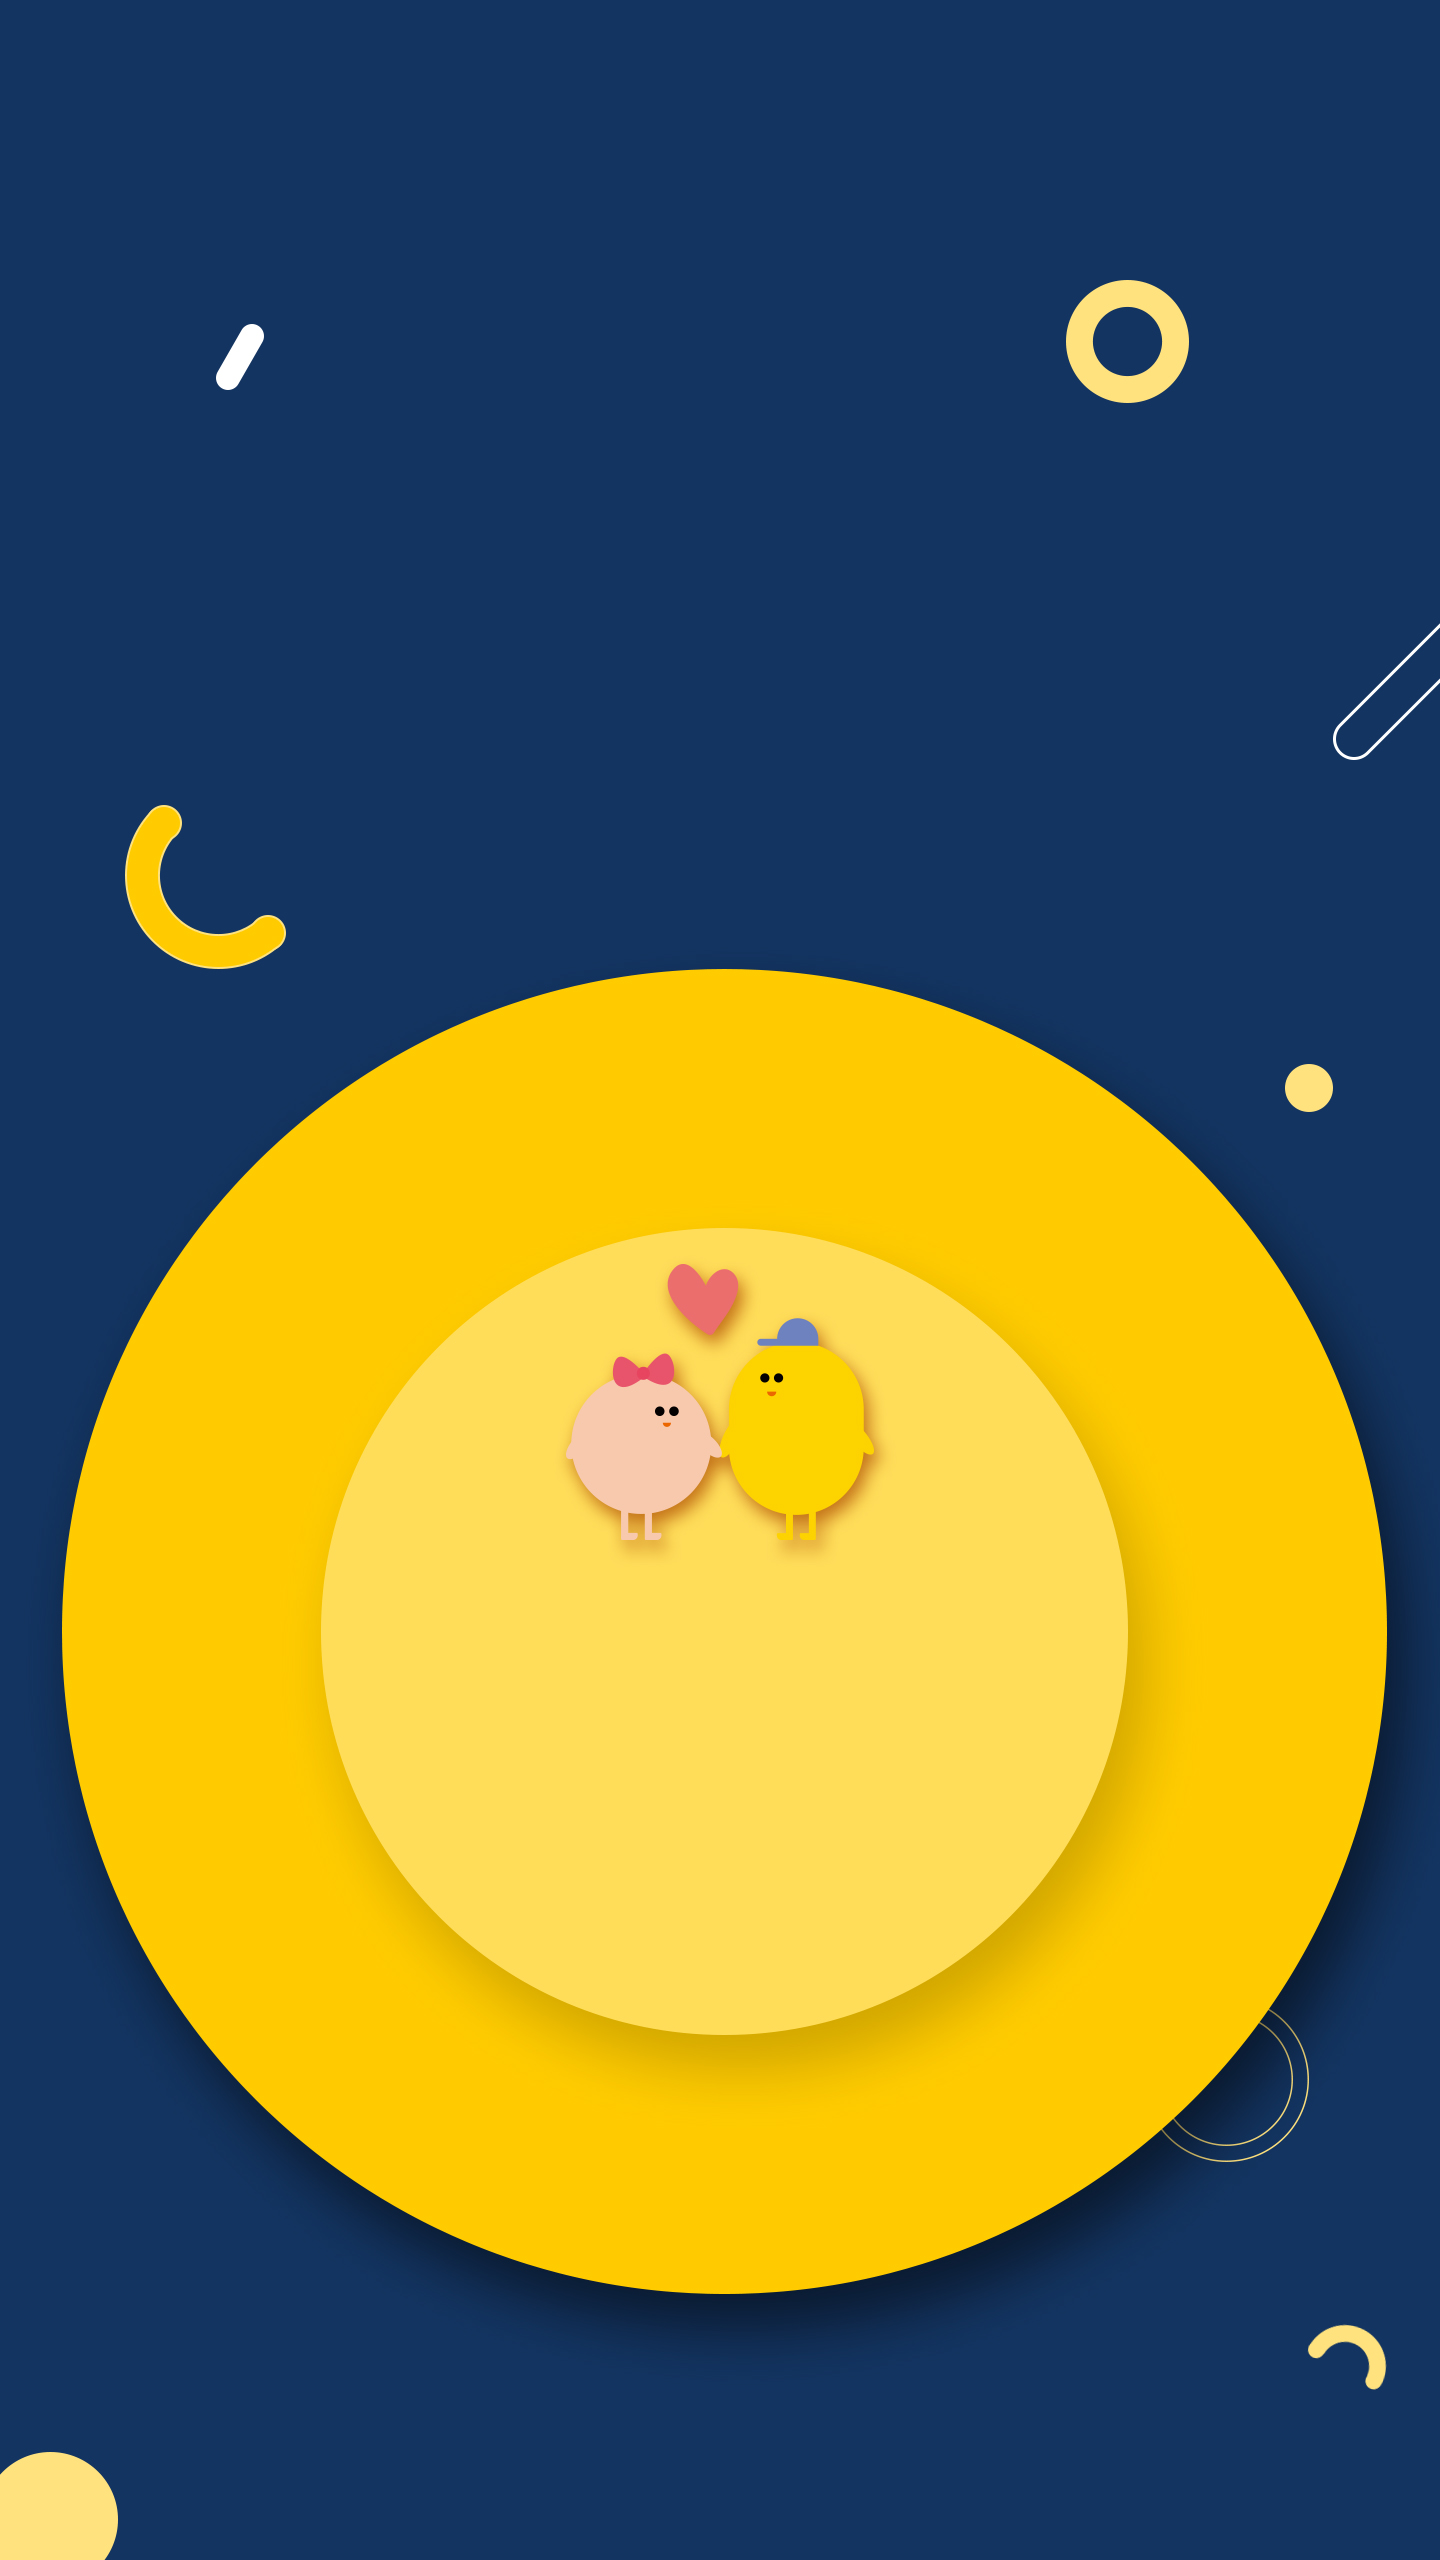
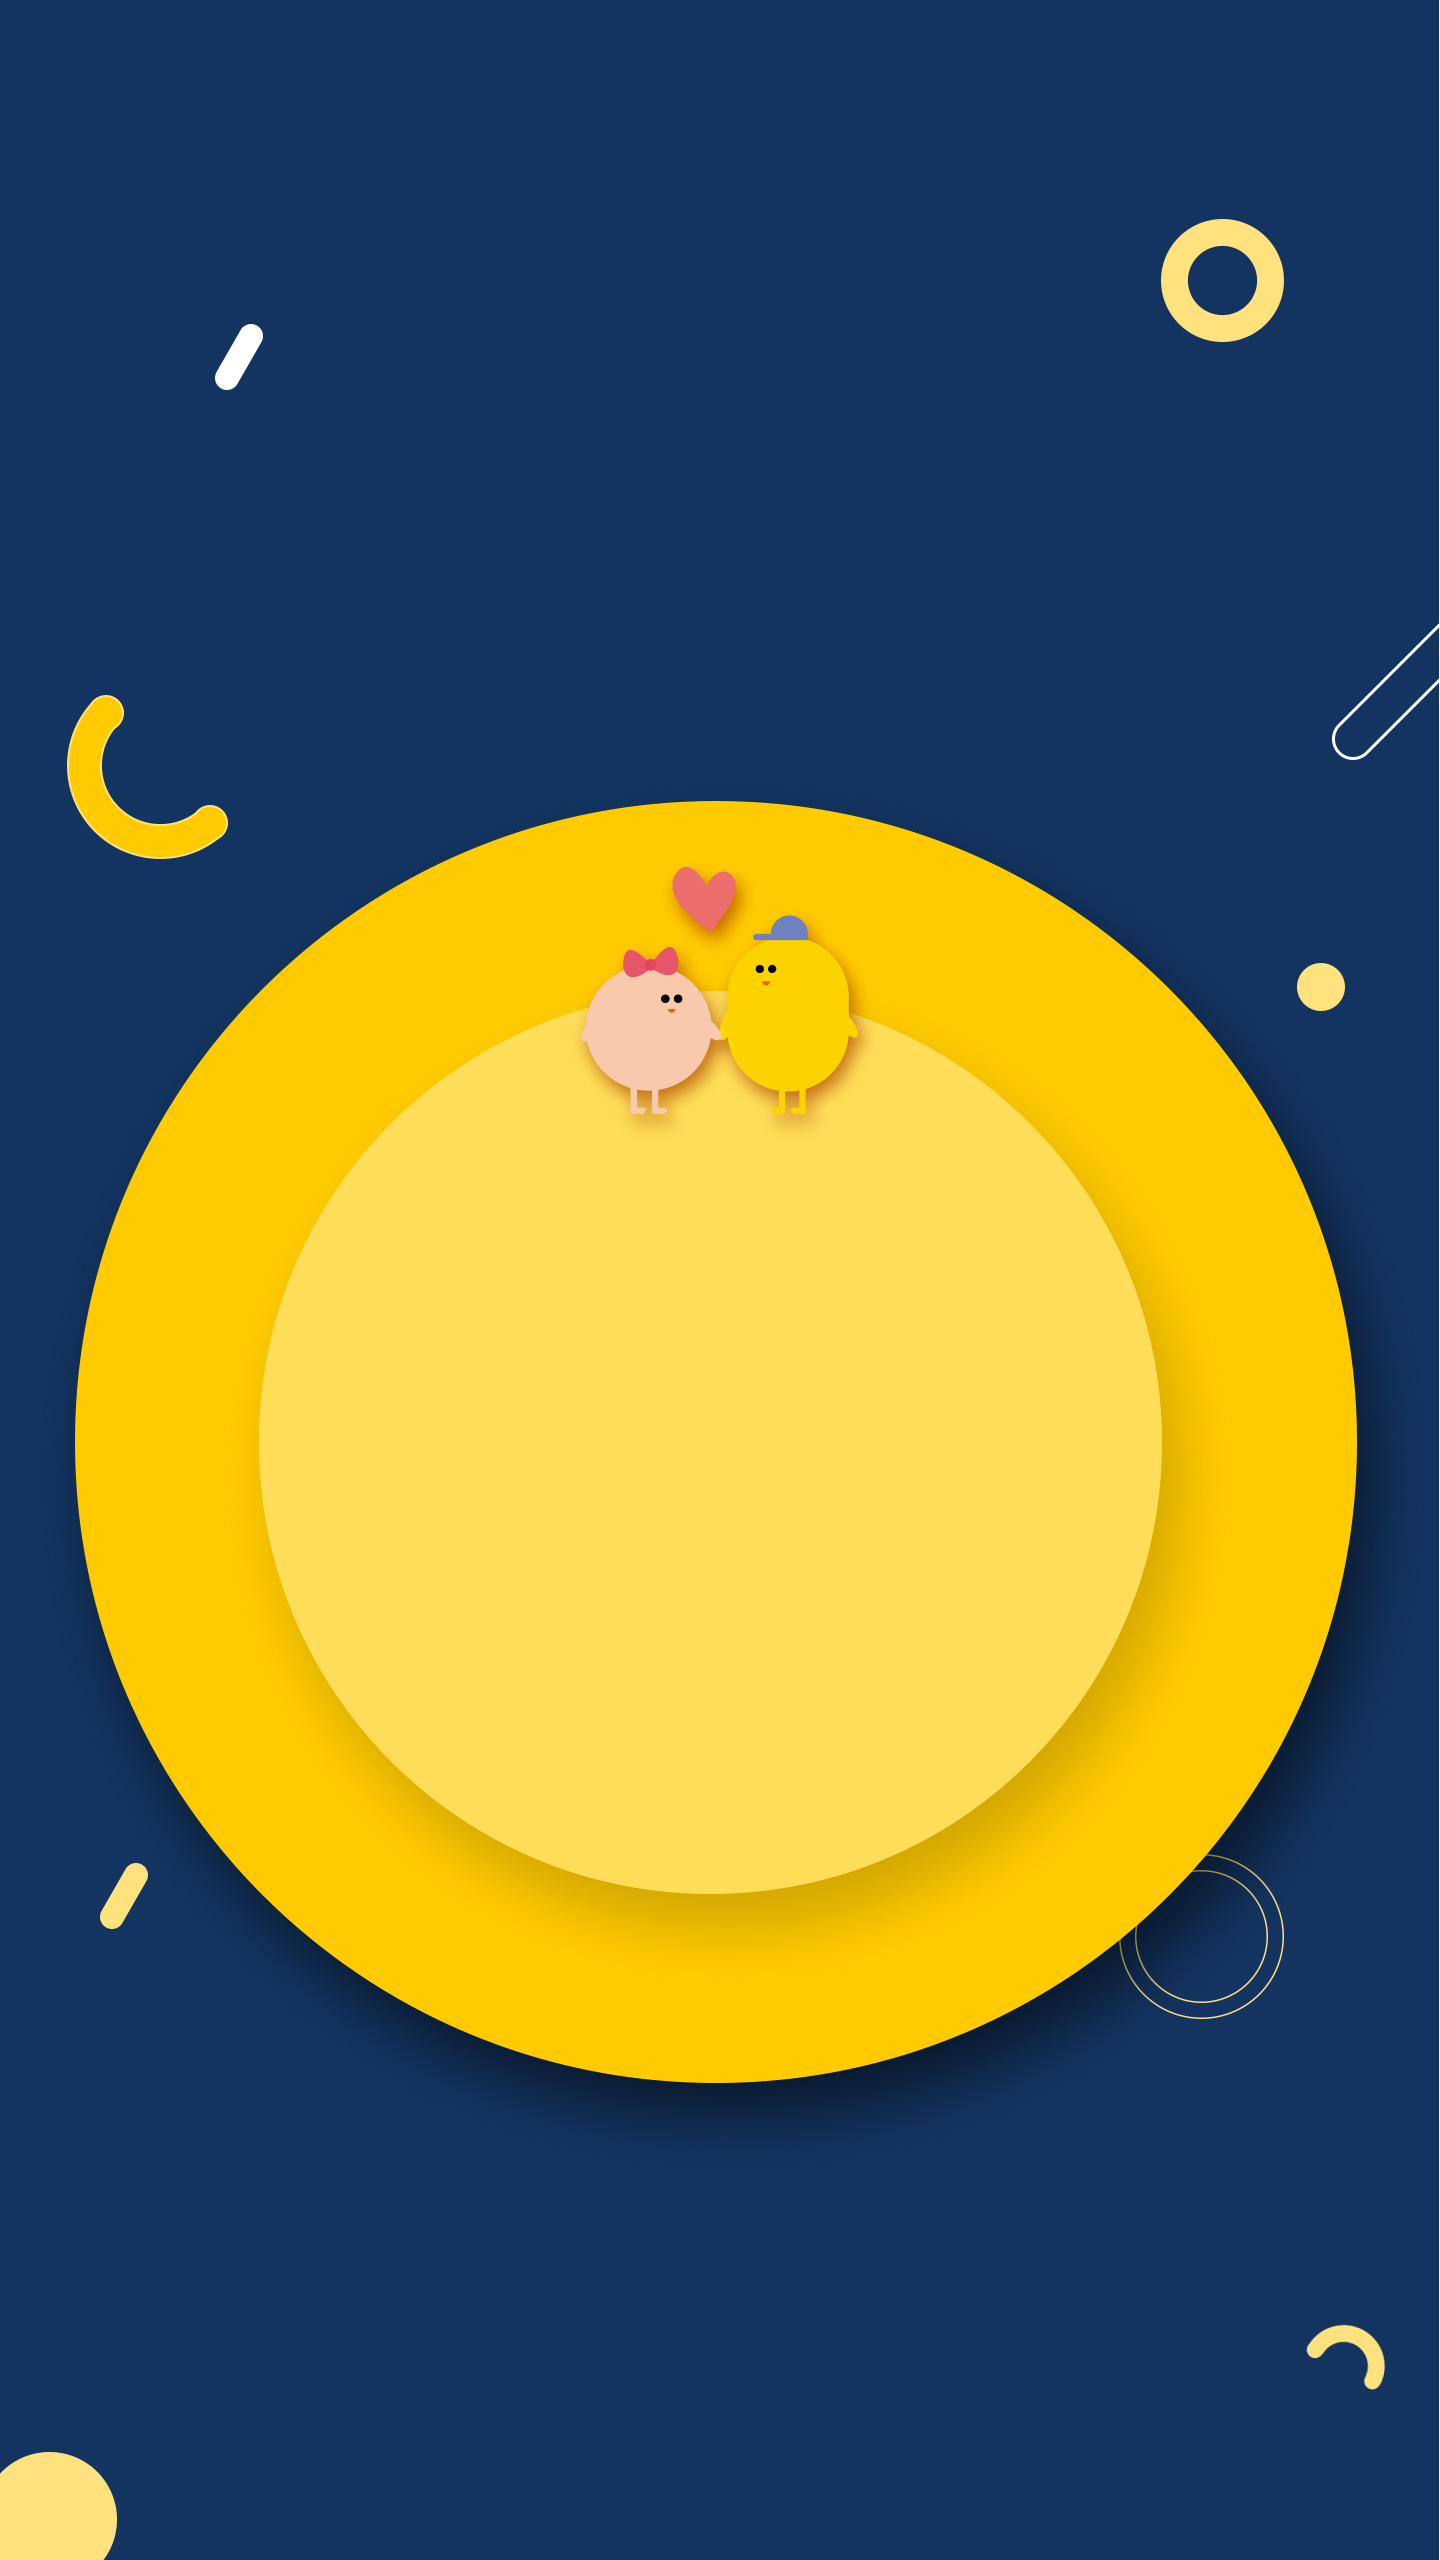
cfort

Changed region(s): [[0.0312, 0.25, 1.0, 0.9375], [0.7188, 0.0625, 0.9062, 0.1562], [0.9688, 0.25, 1.0, 0.2812]]

diff --git a/src/components/AppDown.vue b/src/components/AppDown.vue
@@ -185,7 +185,7 @@ export default {
   width: 100%;
   height: 100vh;
   background-size:100%;
-  background-position:center 0px;
+  background-position:center 110px;
   background-image: url('/static/img/app_down/app_down_bc.jpg');
   z-index: 100;
 }
@@ -193,8 +193,8 @@ export default {
   height:100vh;
   /* background-color:#FFCB00; */
   background-repeat: no-repeat;
-  background-size:145%;
-  background-position:center 305px;
+  background-size:120%;
+  background-position:center 325px;
   background-image: url('/static/img/app_down/app_info.png');
 }
 
